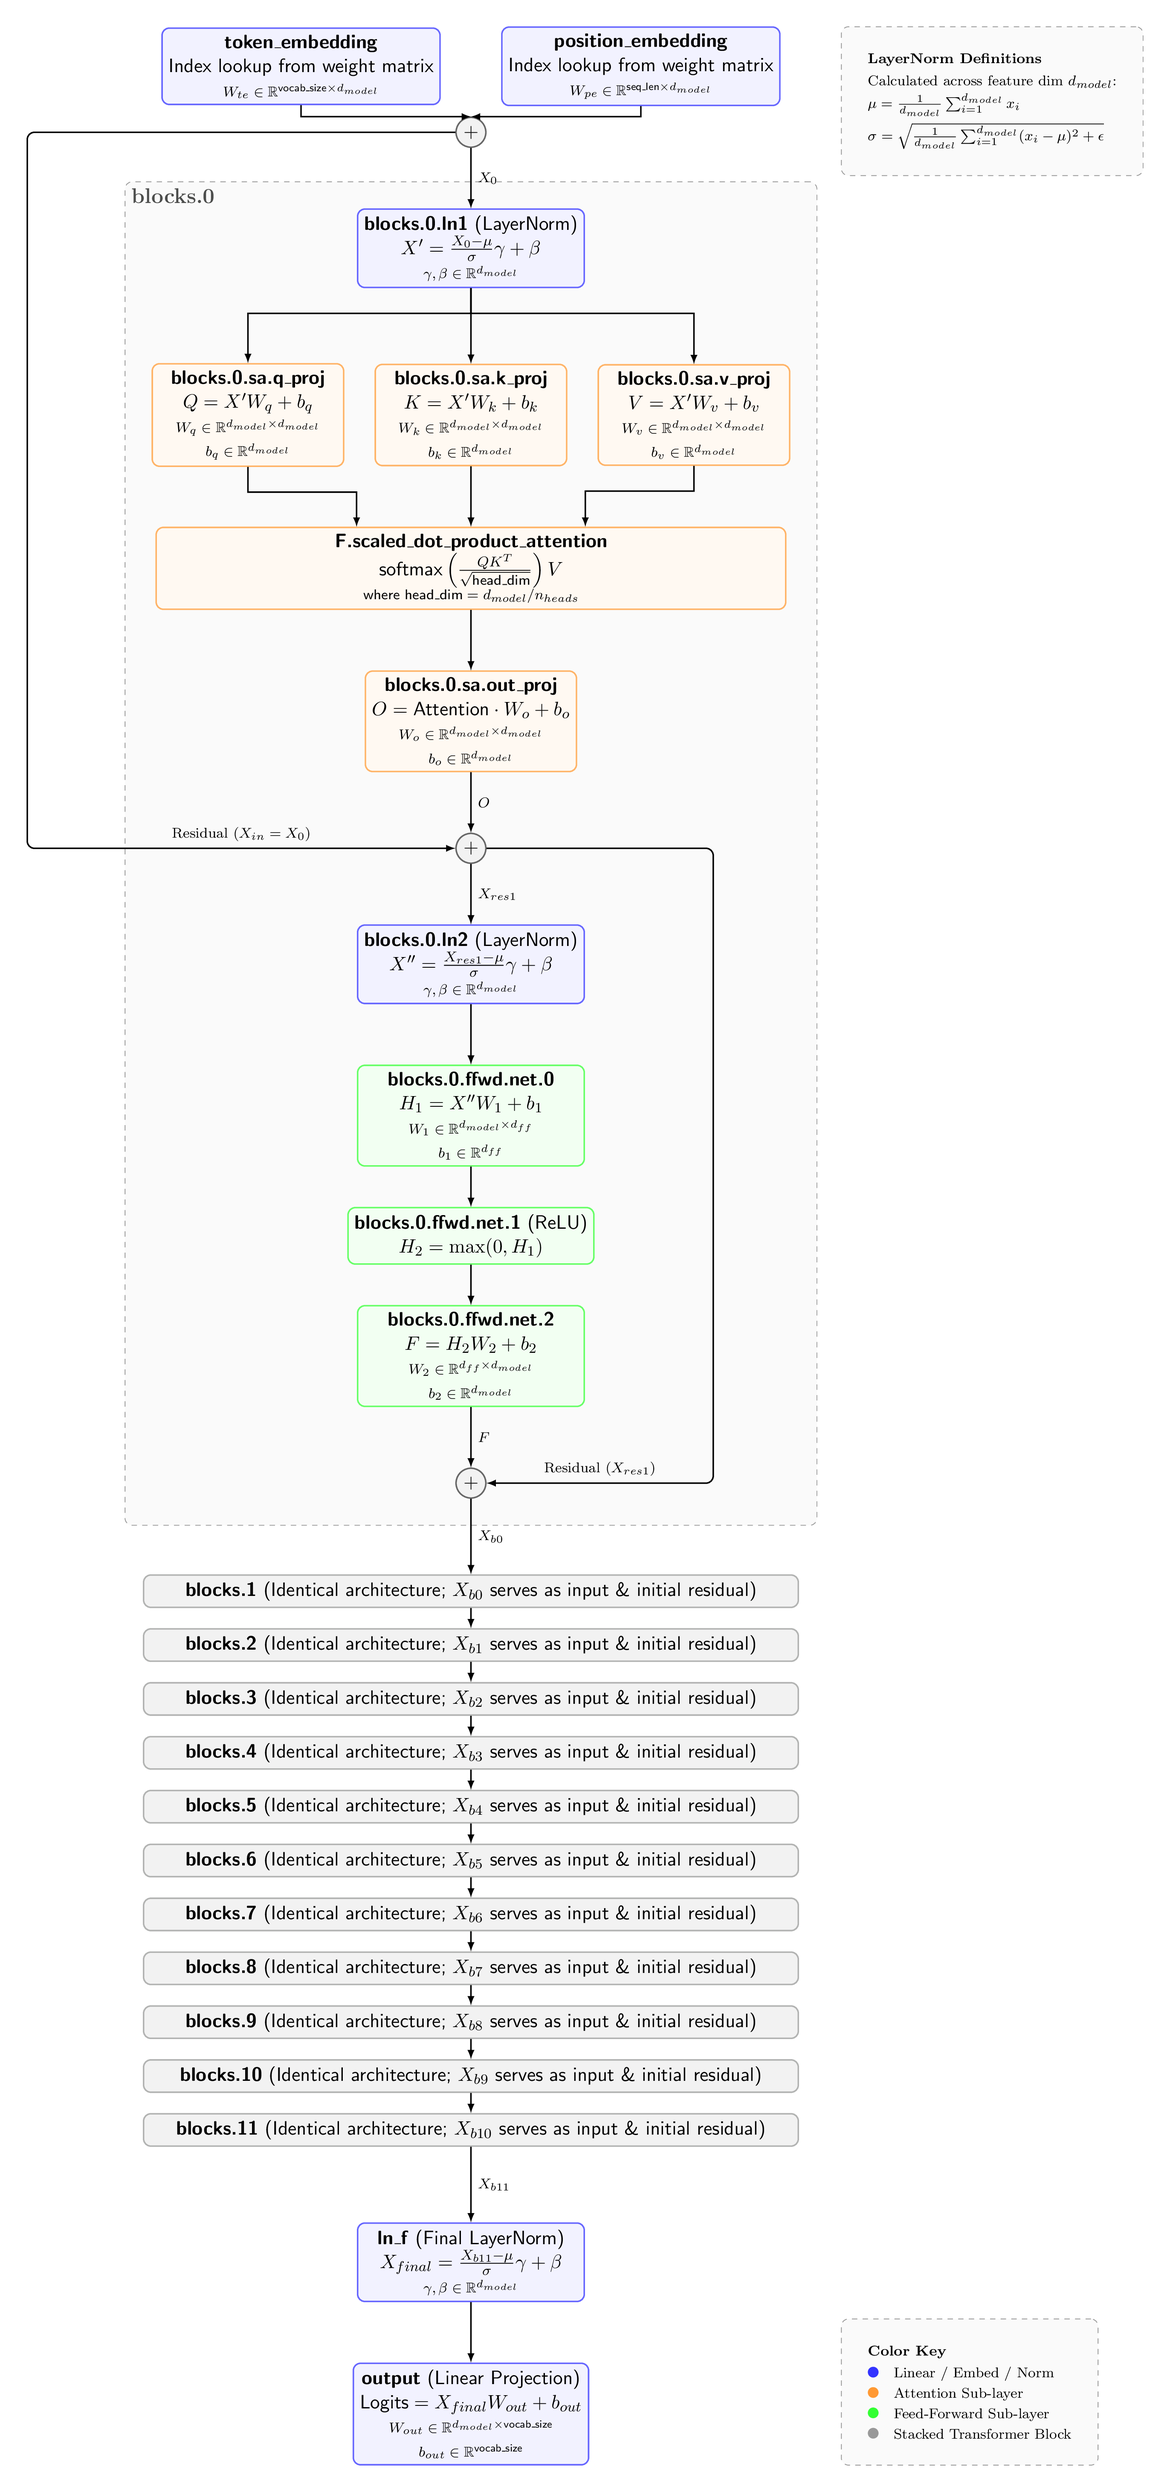
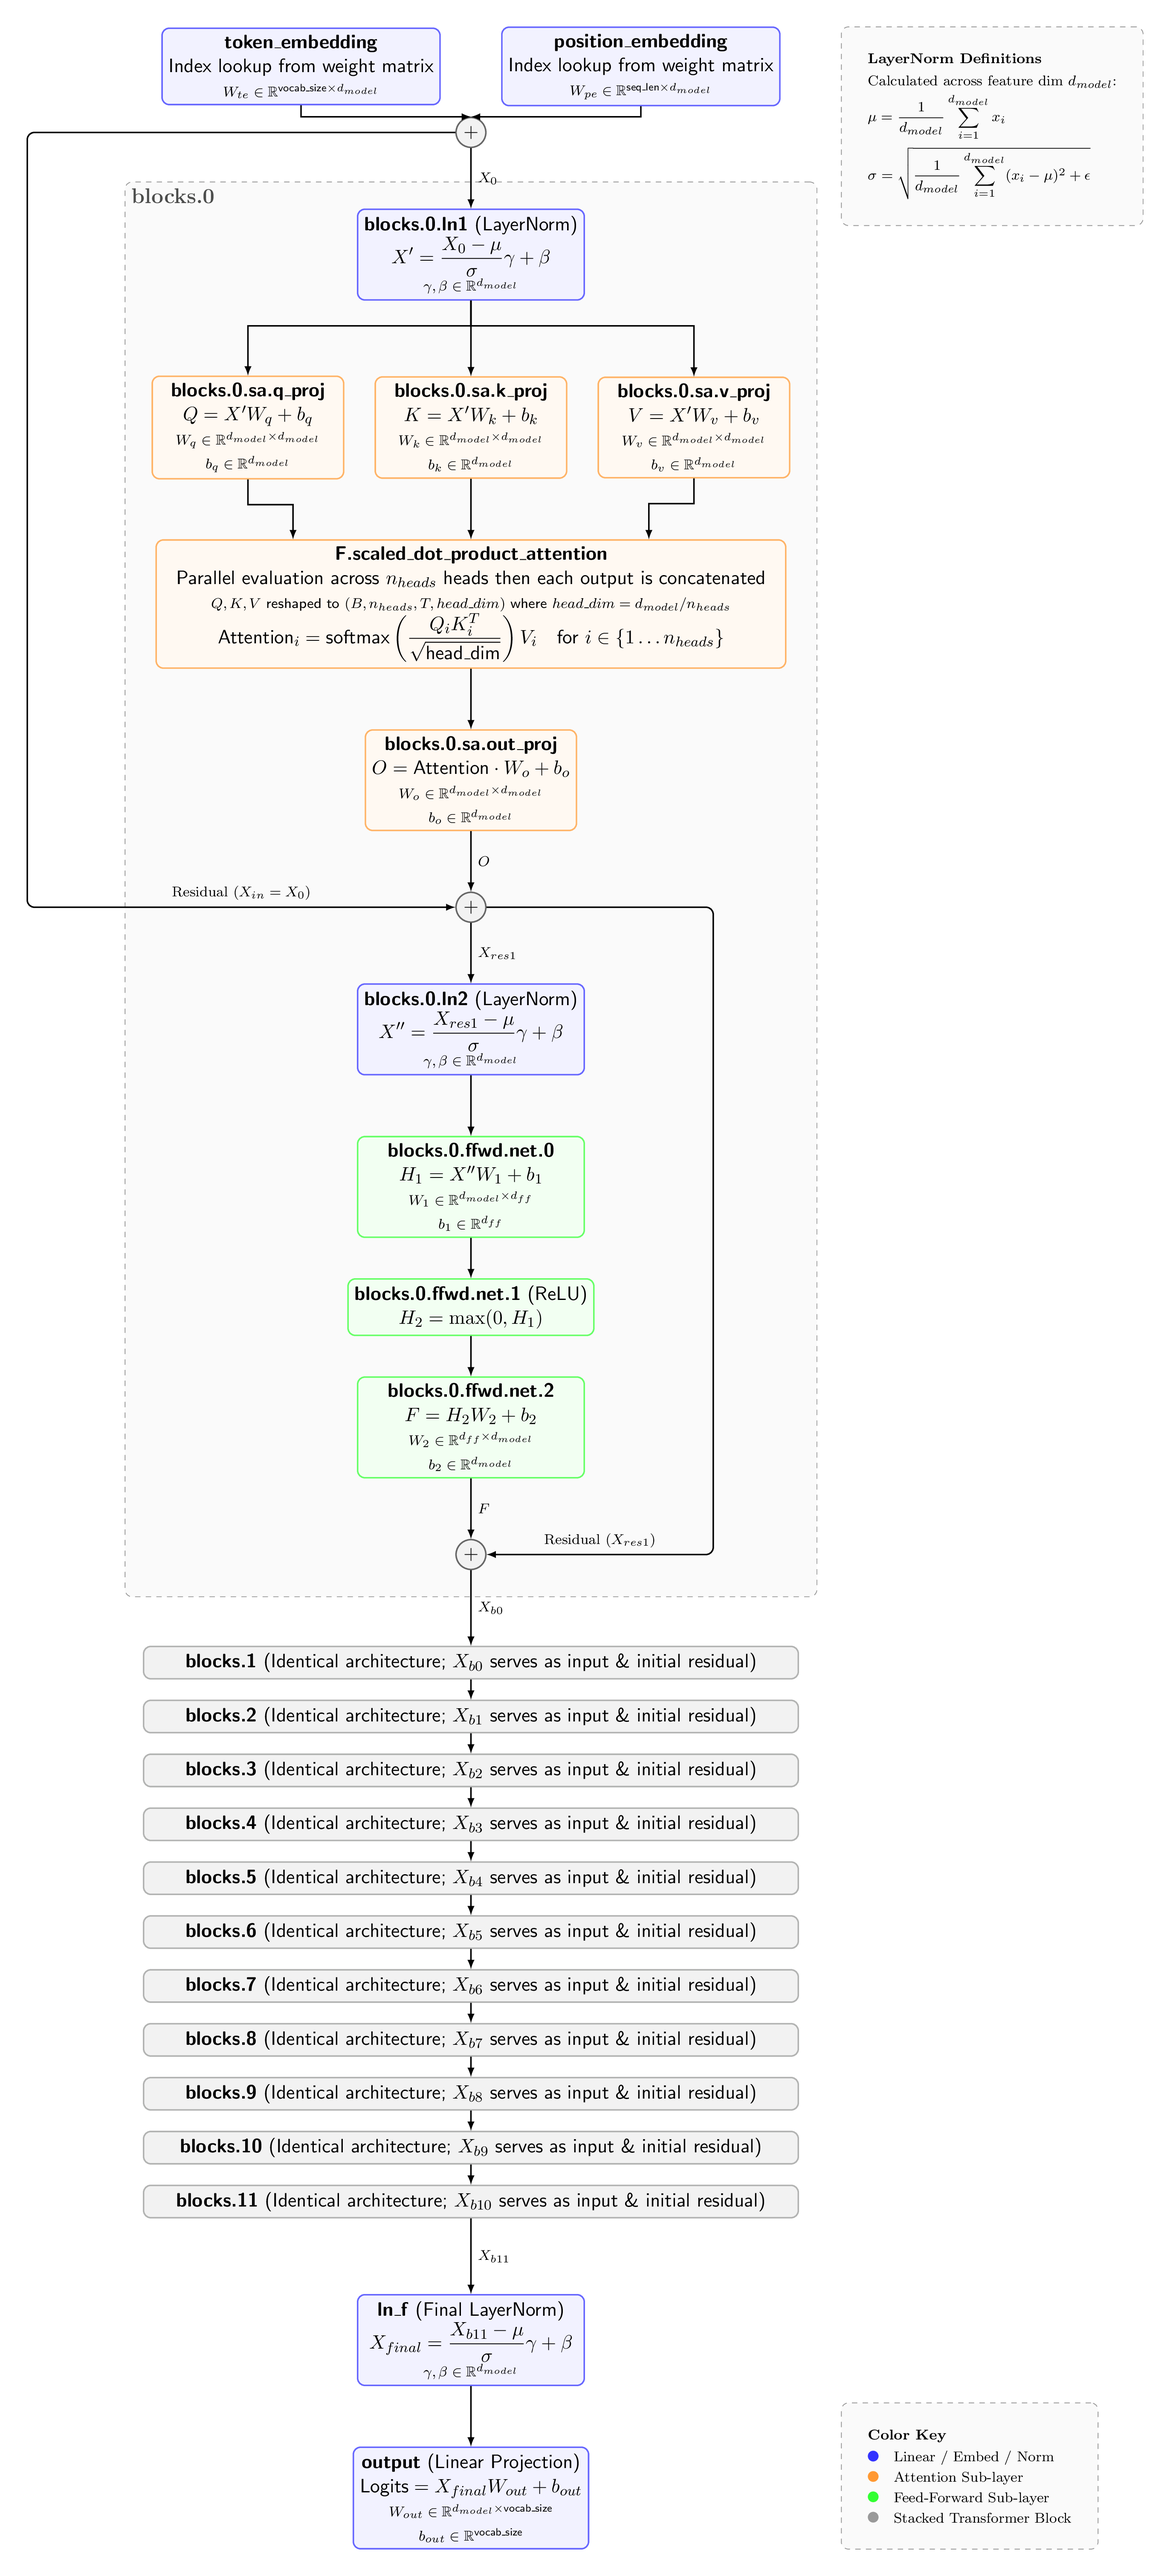
Update README with additional results and model parameters

diff --git a/README.md b/README.md
@@ -25,38 +25,47 @@ R2_BUCKET=
 
 ## Results
 
-
-| Strategy   |   Train Loss |   Train Char Acc |   Train Seq Acc |   Val Loss |   Val Char Acc |   Val Seq Acc |
-|------------|--------------|------------------|-----------------|------------|----------------|---------------|
-| Full       |   0.00652514 |         0.998196 |        0.986436 |  0.0421419 |       0.989236 |      0.960942 |
-| R10        |   2.56903    |         0.330807 |        0        |  2.57257   |       0.329191 |      0        |
-| R100       |   0.491093   |         0.902265 |        0.252221 |  0.508335  |       0.896304 |      0.24924  |
-| R200       |   0.0615376  |         0.987267 |        0.850419 |  0.0851891 |       0.979258 |      0.831729 |
-| R300       |   0.0151412  |         0.996512 |        0.96182  |  0.0414493 |       0.988339 |      0.937212 |
-| R500       |   0.00631302 |         0.998372 |        0.985306 |  0.0370988 |       0.989927 |      0.960158 |
-| R600       |   0.00598713 |         0.998397 |        0.986938 |  0.0385707 |       0.989804 |      0.961036 |
-| R700       |   0.00617911 |         0.998319 |        0.986844 |  0.0404629 |       0.989511 |      0.961224 |
-| Energy95   |   0.00624856 |         0.998291 |        0.986593 |  0.0405921 |       0.989482 |      0.960879 |
-| Energy90   |   0.00622869 |         0.998324 |        0.986562 |  0.039608  |       0.989551 |      0.96044  |
-| Energy85   |   0.00629095 |         0.99829  |        0.985463 |  0.0383901 |       0.989779 |      0.960597 |
-| Energy80   |   0.0069521  |         0.998142 |        0.983673 |  0.0383529 |       0.989624 |      0.958904 |
-| Energy75   |   0.00767097 |         0.997938 |        0.981852 |  0.0380986 |       0.989545 |      0.957588 |
-| Energy70   |   0.00838877 |         0.997797 |        0.978838 |  0.0380116 |       0.989404 |      0.955205 |
-| Energy65   |   0.00994936 |         0.997402 |        0.974724 |  0.0386123 |       0.989085 |      0.951005 |
-| Energy60   |   0.0125511  |         0.996804 |        0.968131 |  0.0404257 |       0.988551 |      0.94414  |
-| Energy55   |   0.0163492  |         0.995901 |        0.957989 |  0.0428237 |       0.98778  |      0.934673 |
-| Energy50   |   0.0237214  |         0.994198 |        0.937926 |  0.049075  |       0.986249 |      0.915614 |
-| Q10        |   0.0586851  |         0.981165 |        0.88637  |  0.0905526 |       0.973772 |      0.871791 |
-| K10        |   0.0997652  |         0.969778 |        0.838456 |  0.130395  |       0.962834 |      0.826024 |
-| V10        |   0.0738639  |         0.977497 |        0.804986 |  0.123302  |       0.965632 |      0.780759 |
-| Q100       |   0.00827258 |         0.997644 |        0.983108 |  0.0410541 |       0.989198 |      0.960377 |
-| K100       |   0.00895643 |         0.997338 |        0.98226  |  0.0416287 |       0.989152 |      0.959813 |
-| V100       |   0.0101268  |         0.997052 |        0.974222 |  0.0477865 |       0.987523 |      0.948904 |
-| Q200       |   0.00721577 |         0.99796  |        0.984803 |  0.0414365 |       0.989271 |      0.961067 |
-| K200       |   0.00719378 |         0.997969 |        0.984803 |  0.0412741 |       0.989312 |      0.960816 |
-| V200       |   0.00783361 |         0.997743 |        0.981915 |  0.0445015 |       0.988535 |      0.956522 |
-
+| Strategy | Train Loss | Train Char Acc | Train Seq Acc | Val Loss  | Val Char Acc | Val Seq Acc |
+| -------- | ---------- | -------------- | ------------- | --------- | ------------ | ----------- |
+| Full     | 0.00652514 | 0.998196       | 0.986436      | 0.0421419 | 0.989236     | 0.960942    |
+| R10      | 2.56903    | 0.330807       | 0             | 2.57257   | 0.329191     | 0           |
+| R100     | 0.491093   | 0.902265       | 0.252221      | 0.508335  | 0.896304     | 0.24924     |
+| R200     | 0.0615376  | 0.987267       | 0.850419      | 0.0851891 | 0.979258     | 0.831729    |
+| R300     | 0.0151412  | 0.996512       | 0.96182       | 0.0414493 | 0.988339     | 0.937212    |
+| R500     | 0.00631302 | 0.998372       | 0.985306      | 0.0370988 | 0.989927     | 0.960158    |
+| R600     | 0.00598713 | 0.998397       | 0.986938      | 0.0385707 | 0.989804     | 0.961036    |
+| R700     | 0.00617911 | 0.998319       | 0.986844      | 0.0404629 | 0.989511     | 0.961224    |
+| Energy95 | 0.00624856 | 0.998291       | 0.986593      | 0.0405921 | 0.989482     | 0.960879    |
+| Energy90 | 0.00622869 | 0.998324       | 0.986562      | 0.039608  | 0.989551     | 0.96044     |
+| Energy85 | 0.00629095 | 0.99829        | 0.985463      | 0.0383901 | 0.989779     | 0.960597    |
+| Energy80 | 0.0069521  | 0.998142       | 0.983673      | 0.0383529 | 0.989624     | 0.958904    |
+| Energy75 | 0.00767097 | 0.997938       | 0.981852      | 0.0380986 | 0.989545     | 0.957588    |
+| Energy70 | 0.00838877 | 0.997797       | 0.978838      | 0.0380116 | 0.989404     | 0.955205    |
+| Energy65 | 0.00994936 | 0.997402       | 0.974724      | 0.0386123 | 0.989085     | 0.951005    |
+| Energy60 | 0.0125511  | 0.996804       | 0.968131      | 0.0404257 | 0.988551     | 0.94414     |
+| Energy55 | 0.0163492  | 0.995901       | 0.957989      | 0.0428237 | 0.98778      | 0.934673    |
+| Energy50 | 0.0237214  | 0.994198       | 0.937926      | 0.049075  | 0.986249     | 0.915614    |
+| Q10      | 0.0586851  | 0.981165       | 0.88637       | 0.0905526 | 0.973772     | 0.871791    |
+| K10      | 0.0997652  | 0.969778       | 0.838456      | 0.130395  | 0.962834     | 0.826024    |
+| V10      | 0.0738639  | 0.977497       | 0.804986      | 0.123302  | 0.965632     | 0.780759    |
+| Q100     | 0.00827258 | 0.997644       | 0.983108      | 0.0410541 | 0.989198     | 0.960377    |
+| K100     | 0.00895643 | 0.997338       | 0.98226       | 0.0416287 | 0.989152     | 0.959813    |
+| V100     | 0.0101268  | 0.997052       | 0.974222      | 0.0477865 | 0.987523     | 0.948904    |
+| Q200     | 0.00721577 | 0.99796        | 0.984803      | 0.0414365 | 0.989271     | 0.961067    |
+| K200     | 0.00719378 | 0.997969       | 0.984803      | 0.0412741 | 0.989312     | 0.960816    |
+| V200     | 0.00783361 | 0.997743       | 0.981915      | 0.0445015 | 0.988535     | 0.956522    |
 
 ## Model
+
+Pre-LN Transformer architecture with additive learned positional embeddings, unmasked multi-head self-attention, two-layer ReLU feed-forward blocks, and a final LayerNorm before the linear output head."
+
+| Parameter  | Value |
+| ---------- | ----- |
+| vocab_size | 32    |
+| seq_len    | 32    |
+| d_model    | 768   |
+| n_heads    | 12    |
+| d_ff       | 3072  |
+| n_layers   | 12    |
 
 [![PDF Preview](write-up/model-diagram.png)](write-up/model-diagram.pdf)
